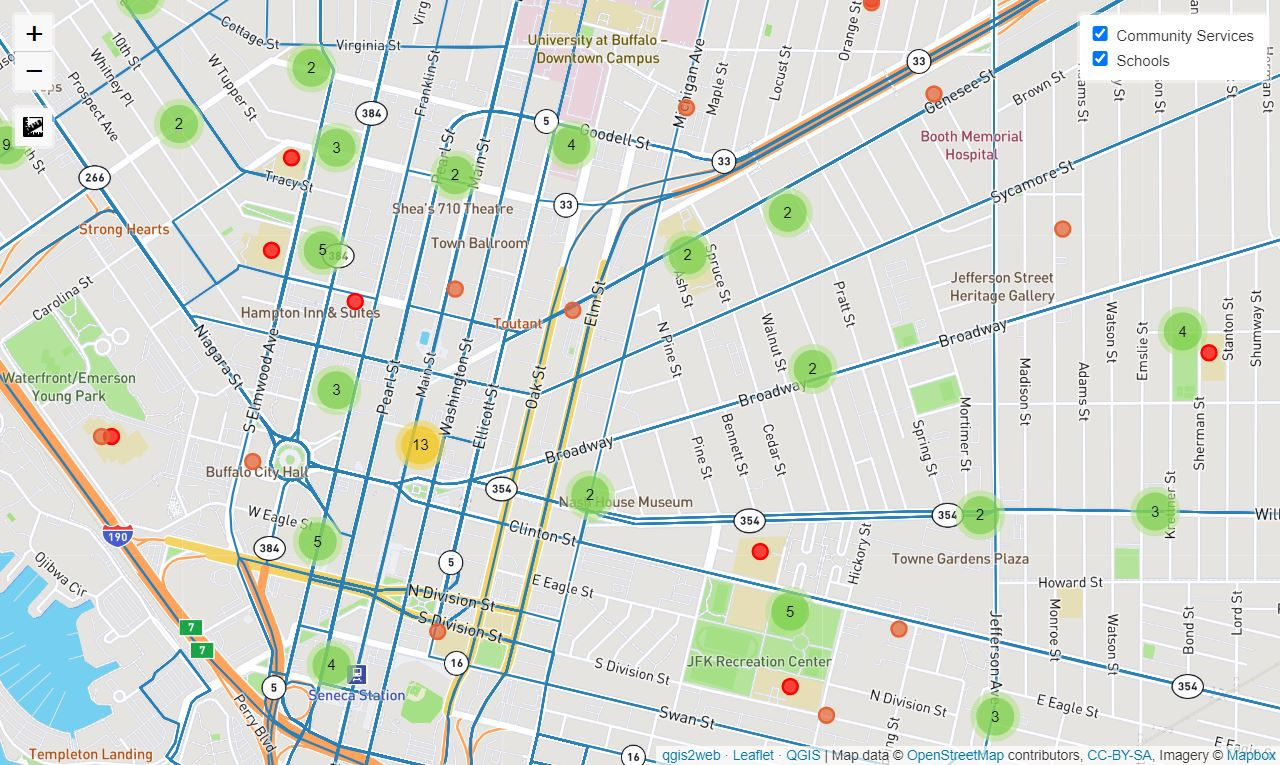
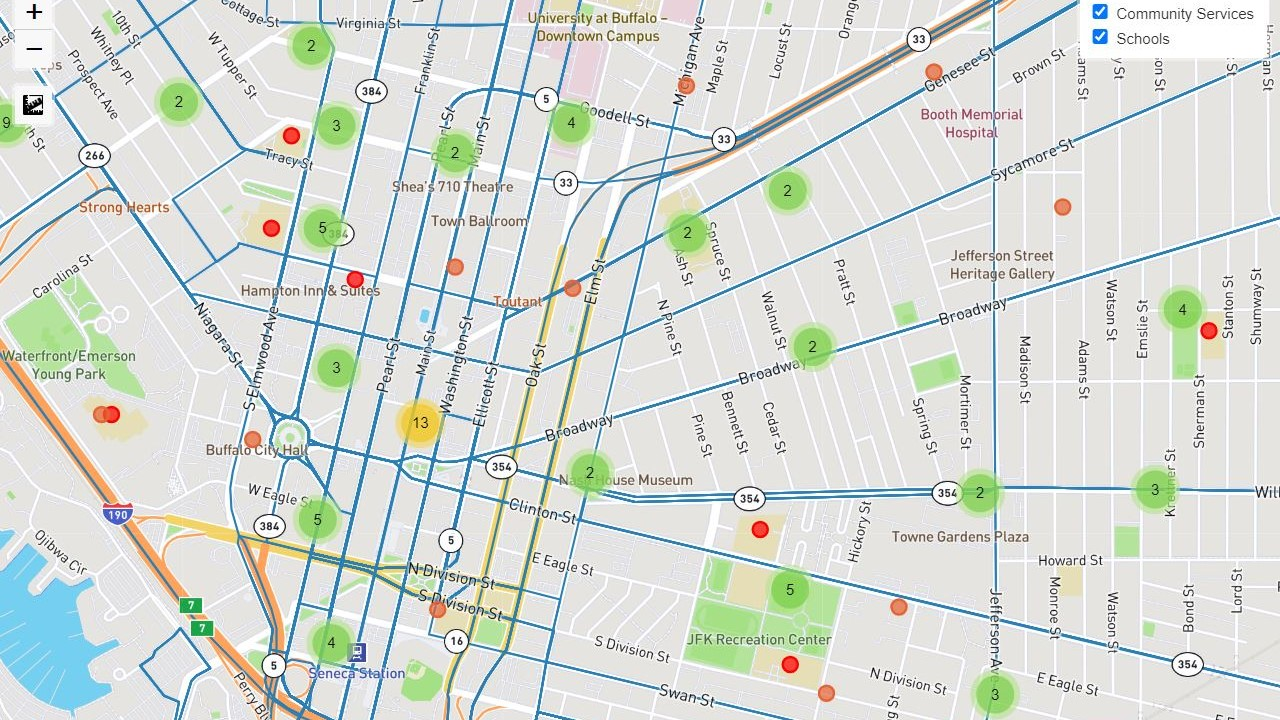
make more responsive

diff --git a/assets/css/main.css b/assets/css/main.css
@@ -28,8 +28,8 @@ body {
 
 .content {
     padding: min(5rem, 4%);
-    padding-left: min(15rem, 12%);
-    padding-right: min(15rem, 12%);
+    /* padding-left: min(15rem, 12%);
+    padding-right: min(15rem, 12%); */
 }
 
 /* #background-image {
@@ -161,13 +161,17 @@ ul {
 
 img {
     border-radius: 0.25rem;
-    width: 100%;
+    /* width: 100%;
     display: block;
     margin-left: auto;
-    margin-right: auto;
+    margin-right: auto; */
     opacity: 1;
     transition: ease-in-out 300ms;
 
+    max-width: 100%;
+    height: auto; /* Maintains the aspect ratio */
+    display: block; /* Helps in removing default bottom margin issues */
+    margin: 0 auto; /* Centers the image if it's smaller than its container */
     /* &:hover {
         opacity: 0.5;
     } */
@@ -188,10 +192,10 @@ img {
     align-items: center;
 }
 
-.gallery-content img {
+/* .gallery-content img {
     height: 290px;
     width: 550px;
-}
+} */
 
 
 /* Add padding BETWEEN each column (if you want) */
@@ -225,8 +229,9 @@ img {
 /* iframe */
 
 iframe {
-    width: 90%;
-    height: 85%;
+    max-width: 100%;
+    /* height: 90%; */
+    aspect-ratio: 16 / 9;
     border: none;
     border-radius: 0.25rem;
     margin-bottom: 2rem;
